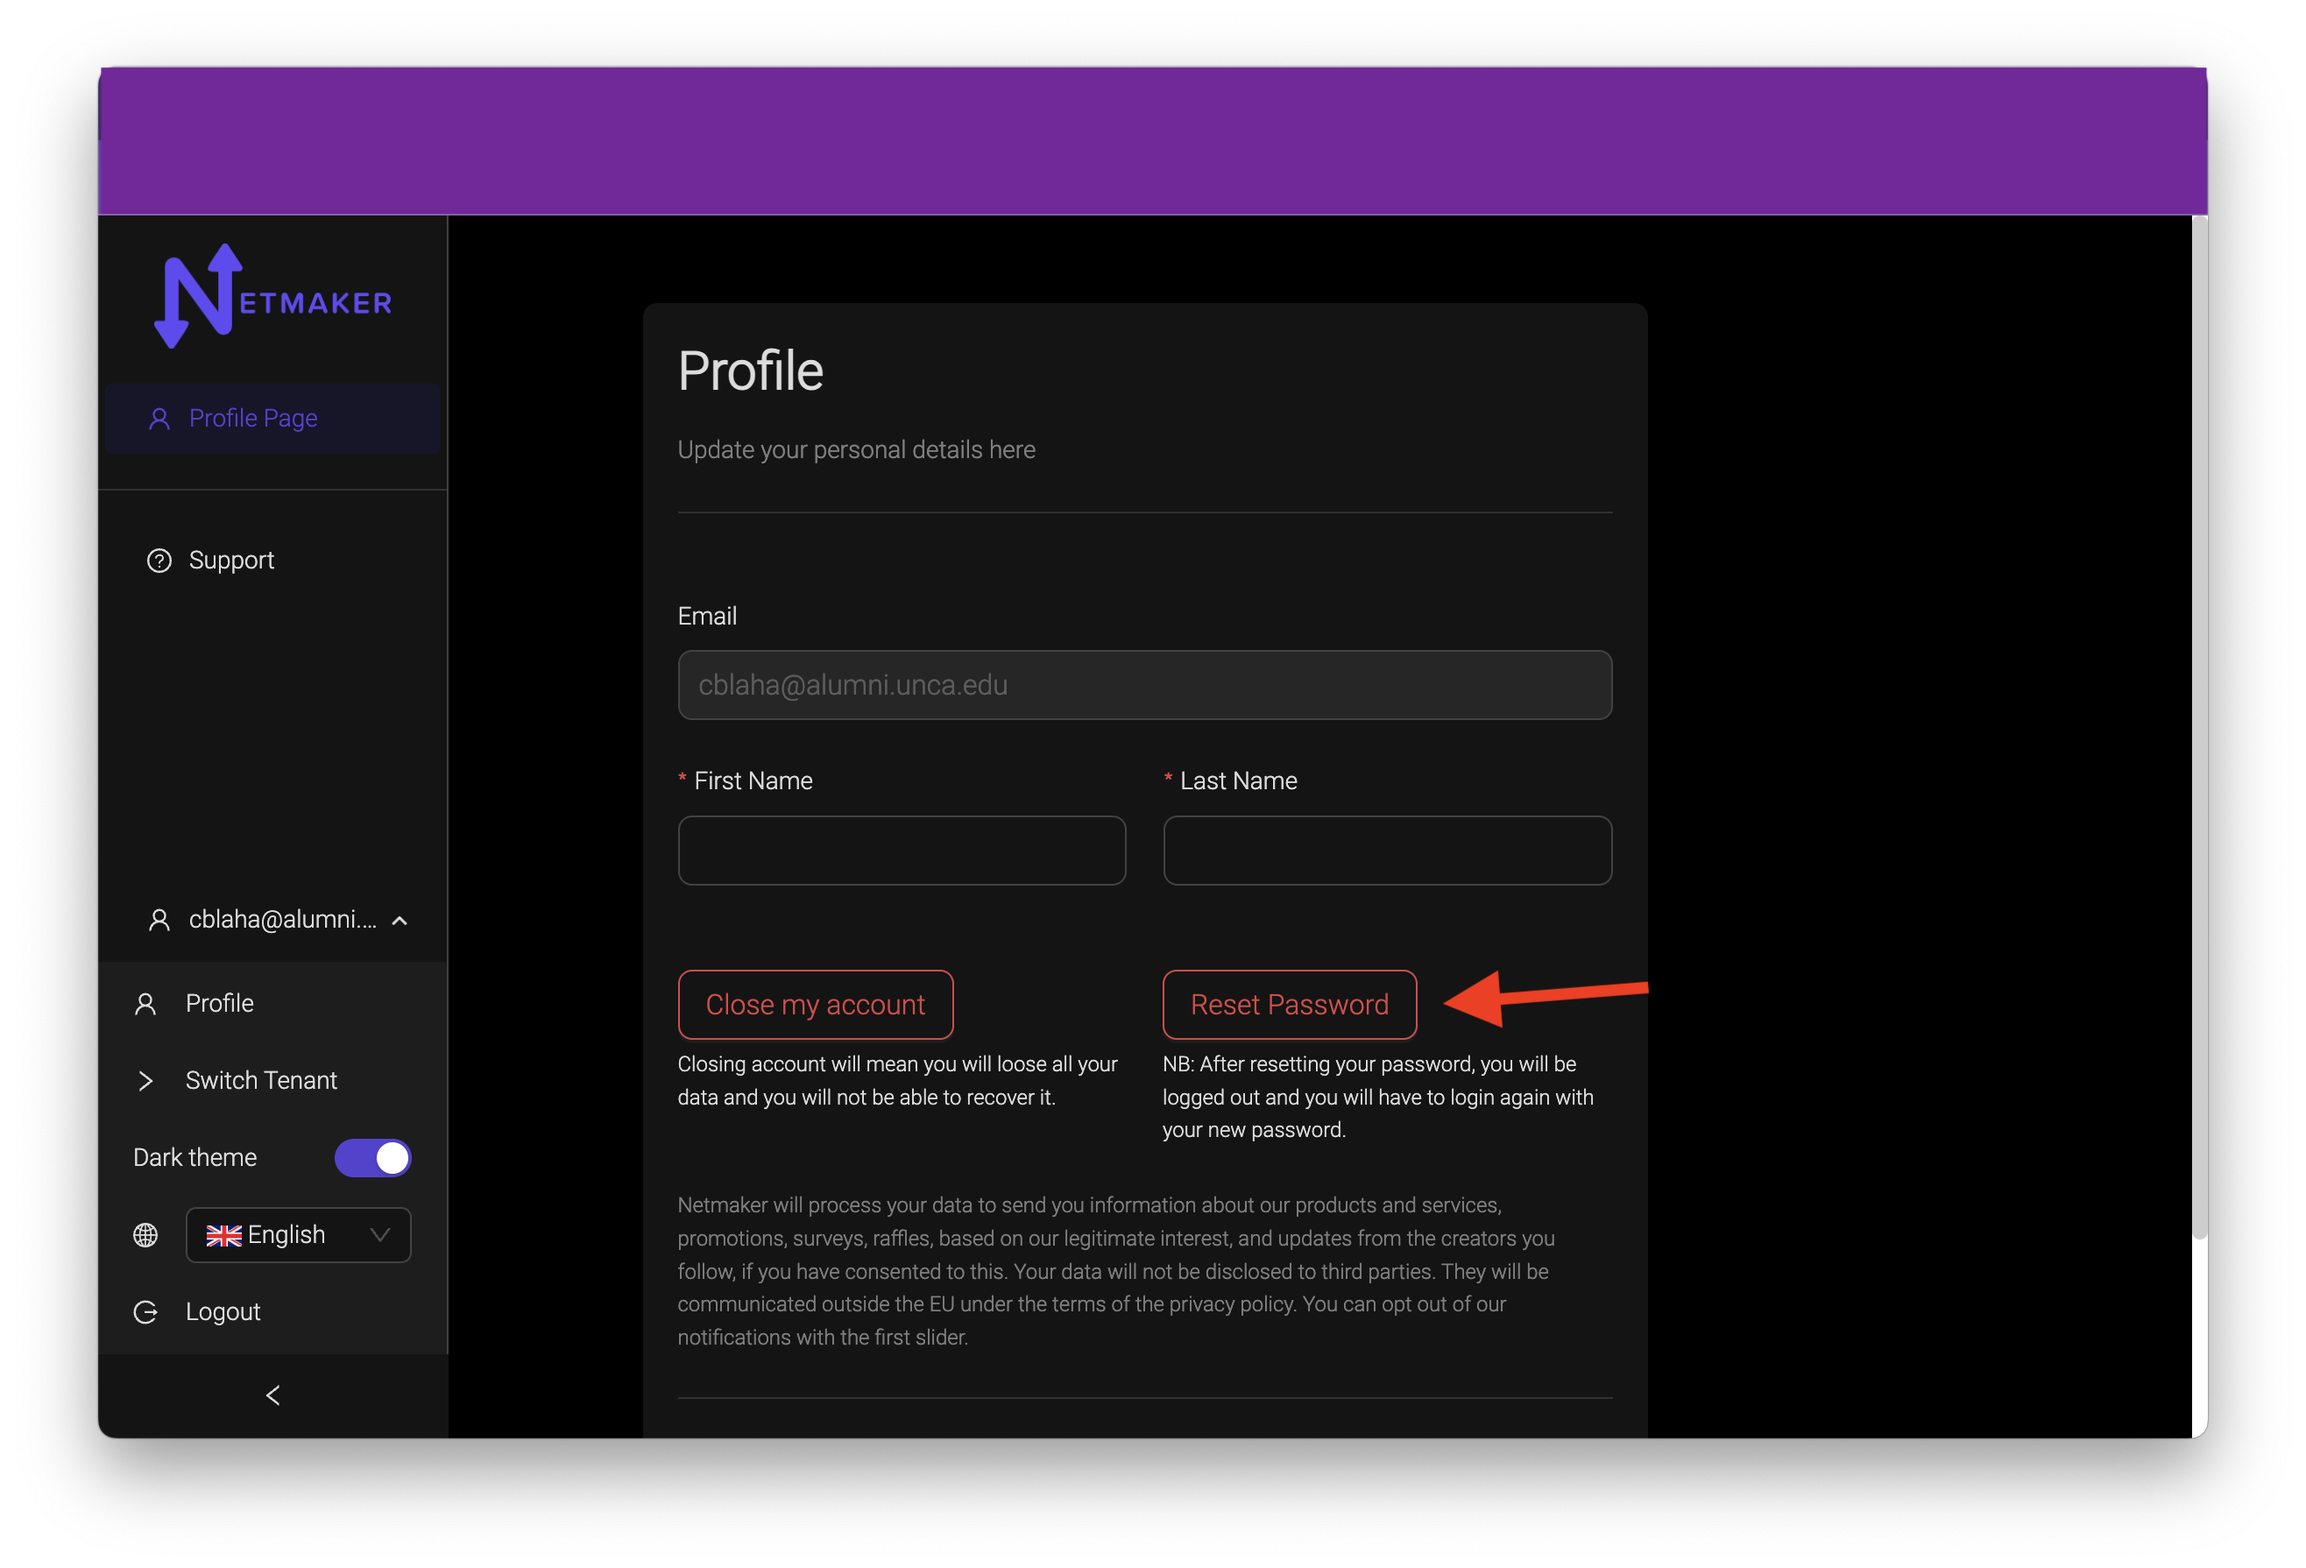
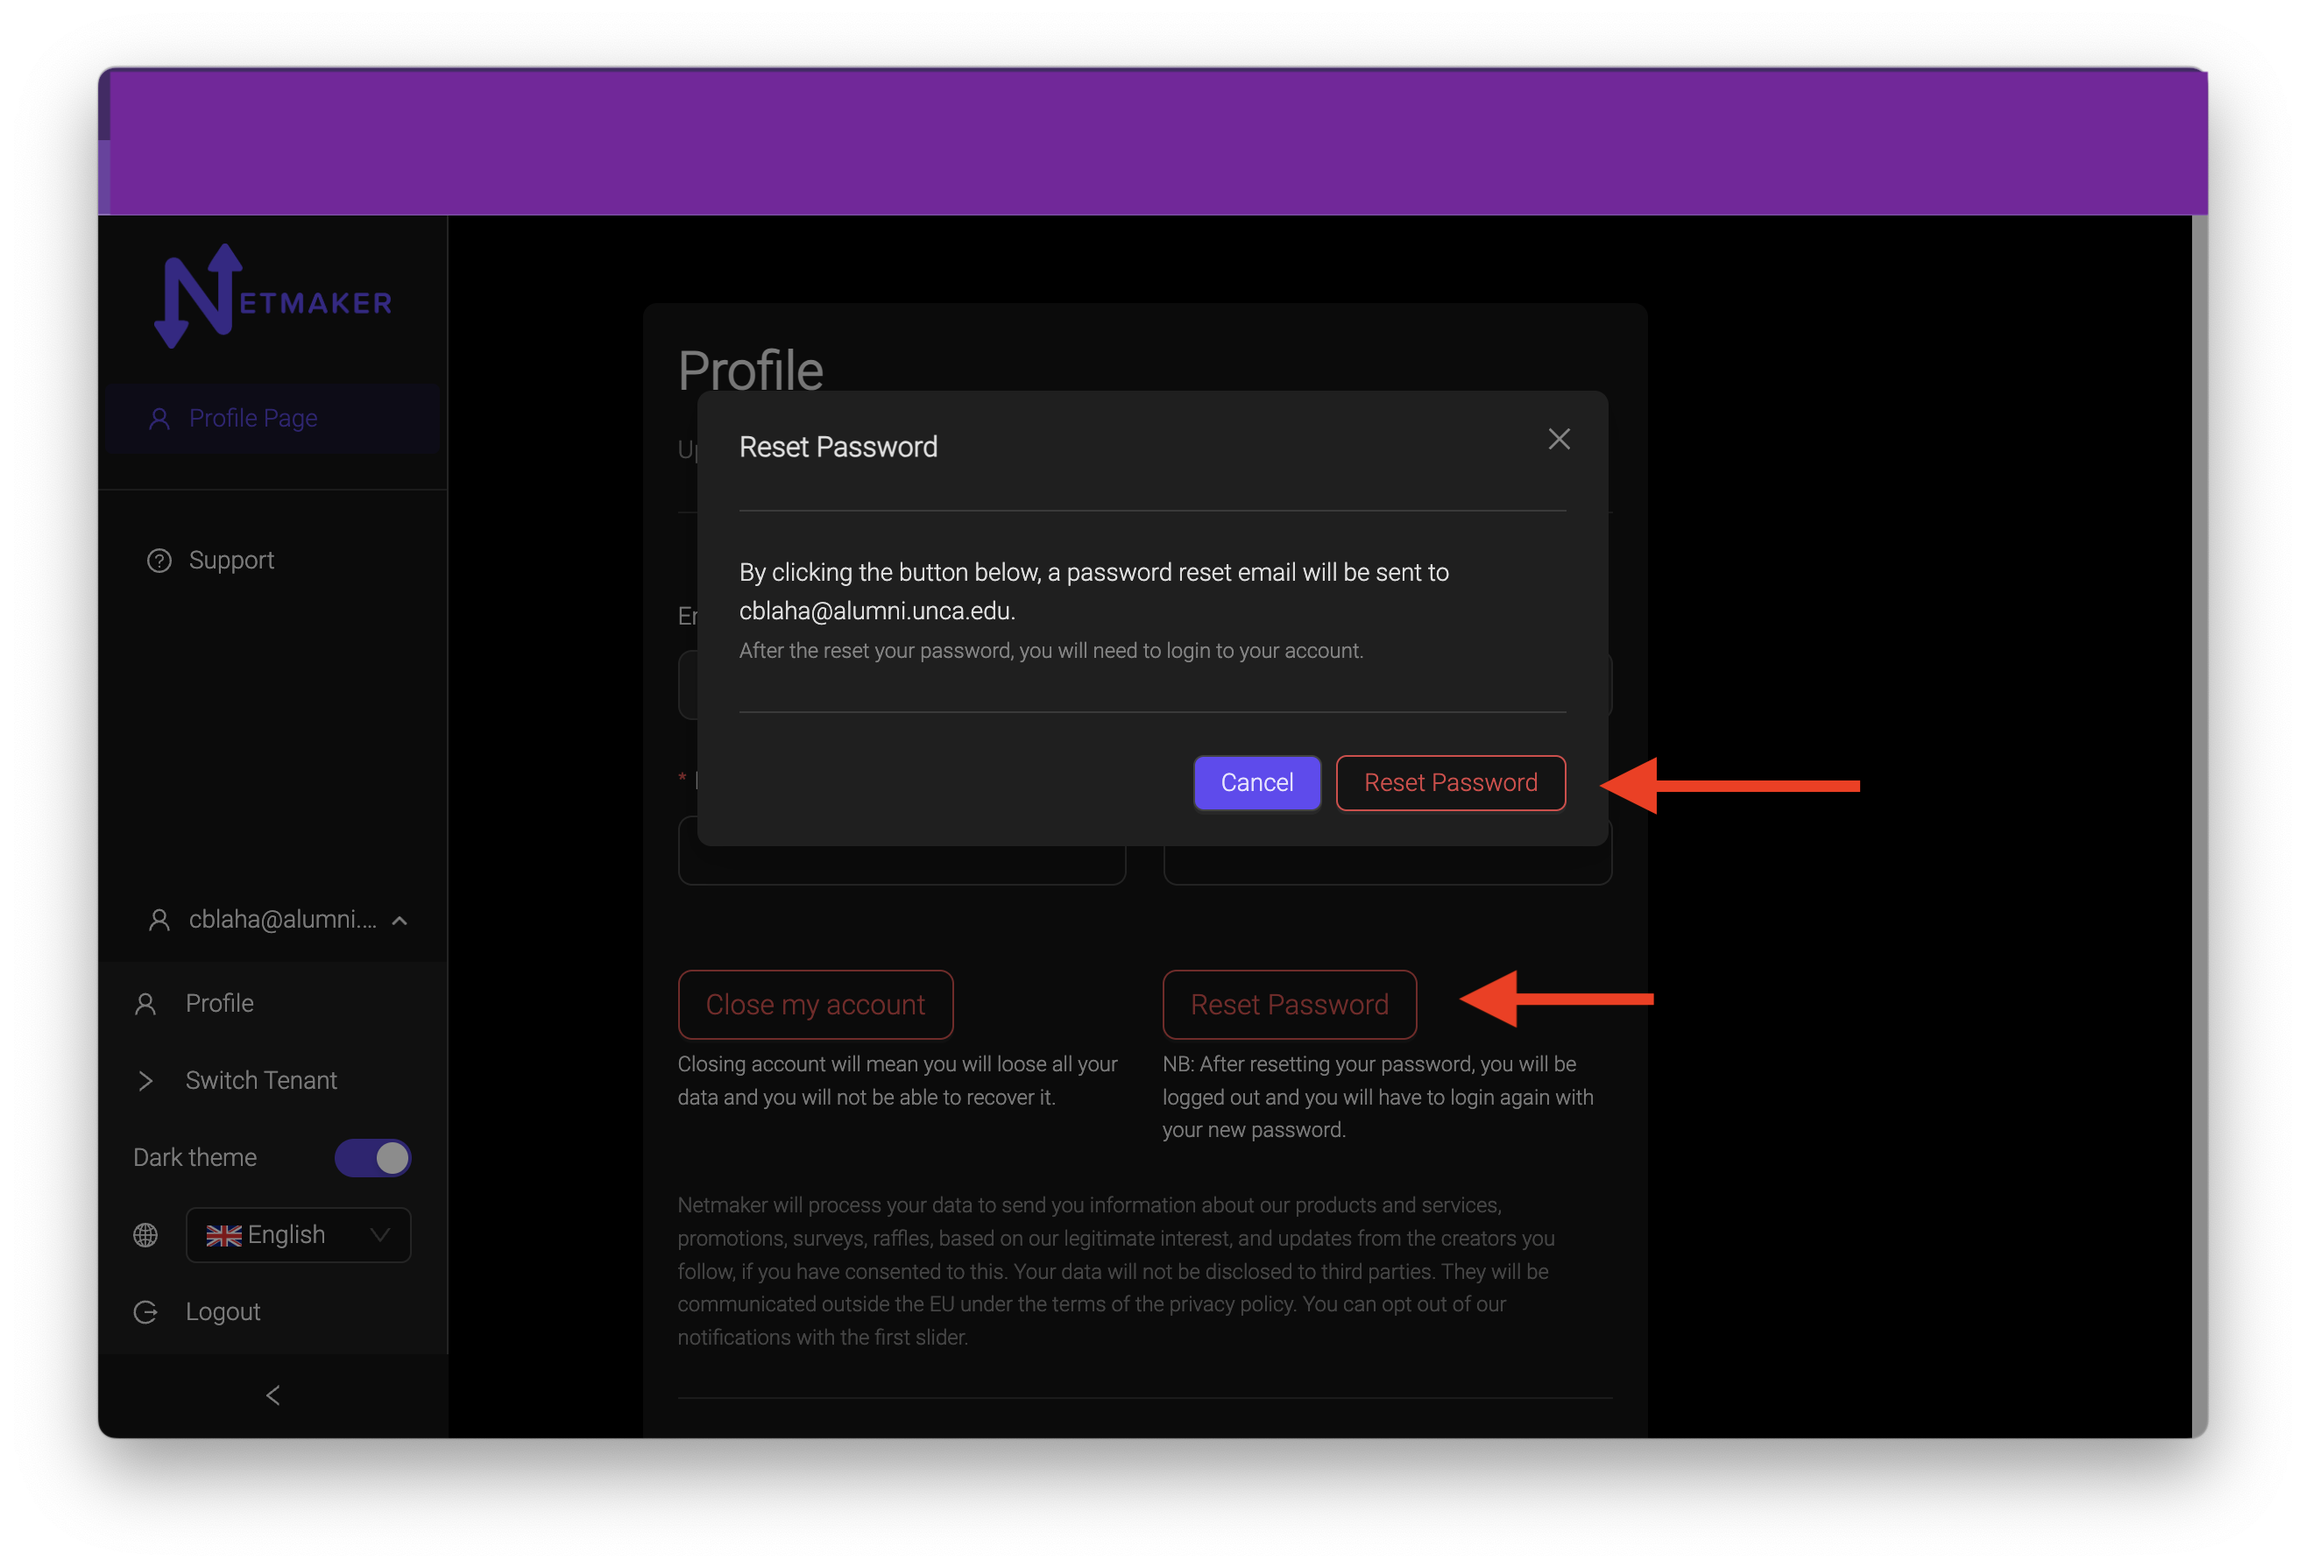
finish profile section

diff --git a/saas/saas-profile.rst b/saas/saas-profile.rst
@@ -15,4 +15,29 @@ Changing your name on your saas profile is easy. simply navigate to Manage Accou
 
 In the text boxes, change the first and last name to whatever you like, and click the save button. That name will now be saved as part of your profile.
 
-note: emails cannot be changed. If you would like to change your email, you will need to create an account with that different email, then you can transfer any tenants over to that account. To see how to transfer a tenant to another user, checkout :doc:`The users <./egress-gateway>`
+note: emails cannot be changed. If you would like to change your email, you will need to create an account with that different email, then you can transfer any tenants over to that account. To see how to transfer a tenant to another user, checkout :doc:`The users <./saas-user>`
+
+Change Password
+================
+
+In the same profile section, click on the reset password button. this will bring up a confirmation modal to send a password reset email to you.
+
+.. image:: images/saas-reset-password.png
+    :width: 80%
+    :alt: confirm password reset
+    :align: center
+
+After confirming the password reset, you will be redirected back to the login screen. Look for an email from ``Netmaker-Account-Manager noreply@supertokens.io``. You may  need to look in your spam folder if it does not show up in your inbox. Follow the instructions in the email to reset your password.
+
+
+Close Account
+===============
+
+To close out your account, just click the close acount button on your profile.
+
+.. image:: images/saas-close-account.png
+    :width: 80%
+    :alt: close account
+    :align: center
+
+This will remove all your tenants and information from that account and is not reversable. If there are any tenants you don't want permenantly removed, transfer them over to :doc:`Another user <./saas-user>` . 
